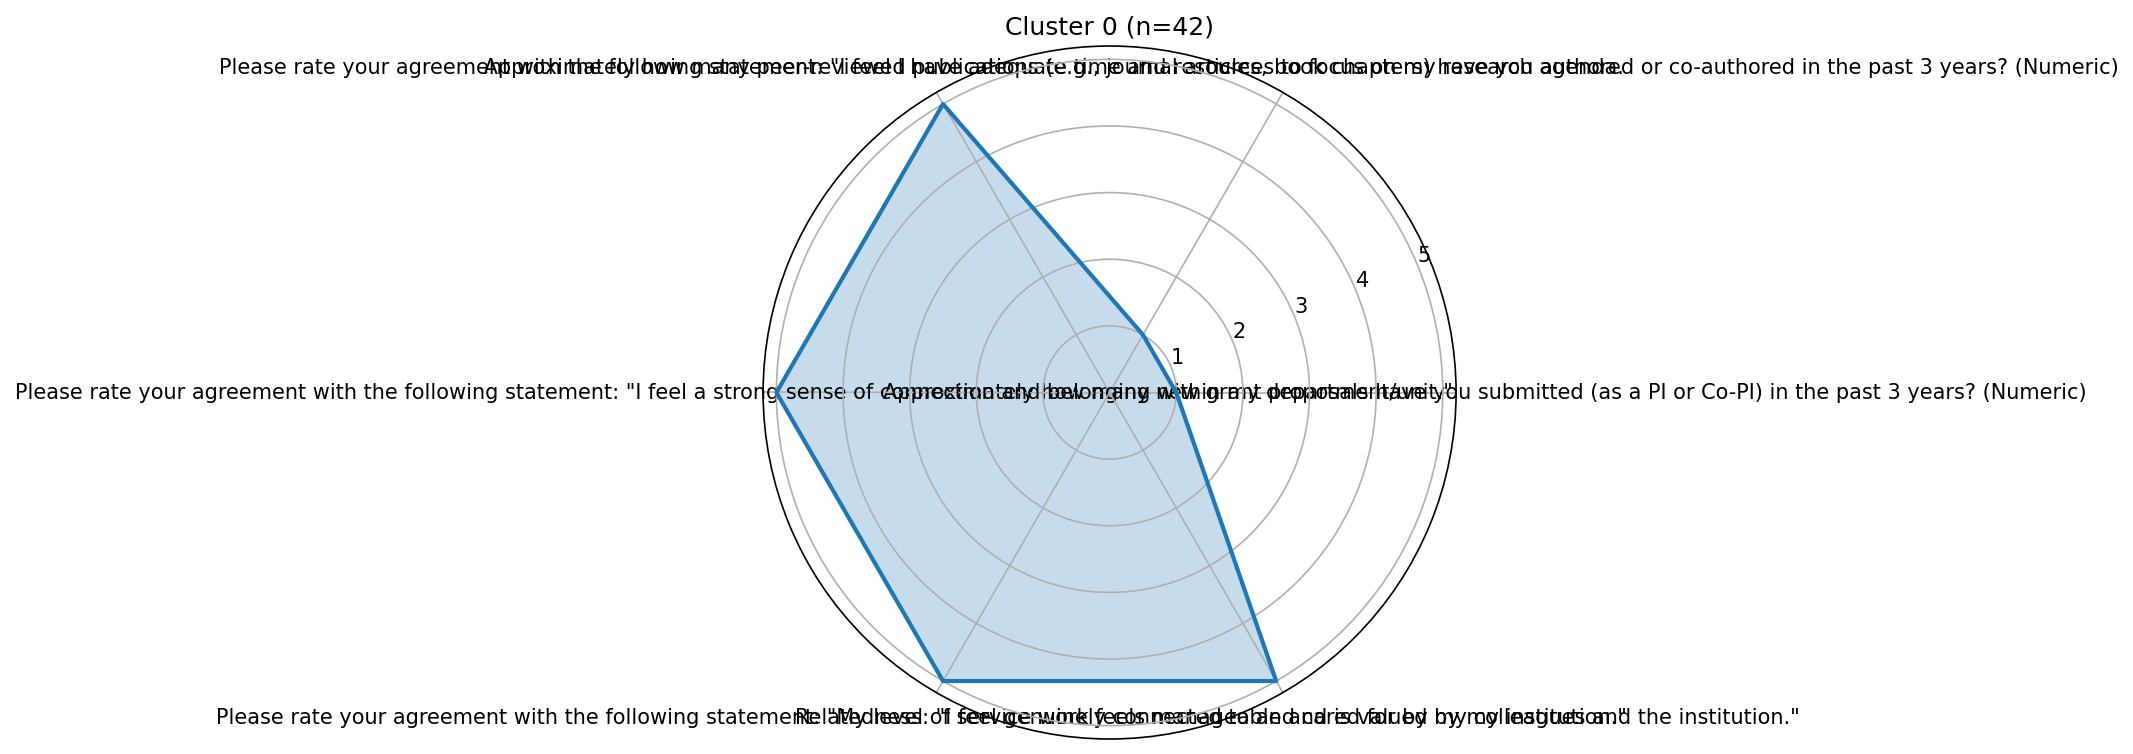
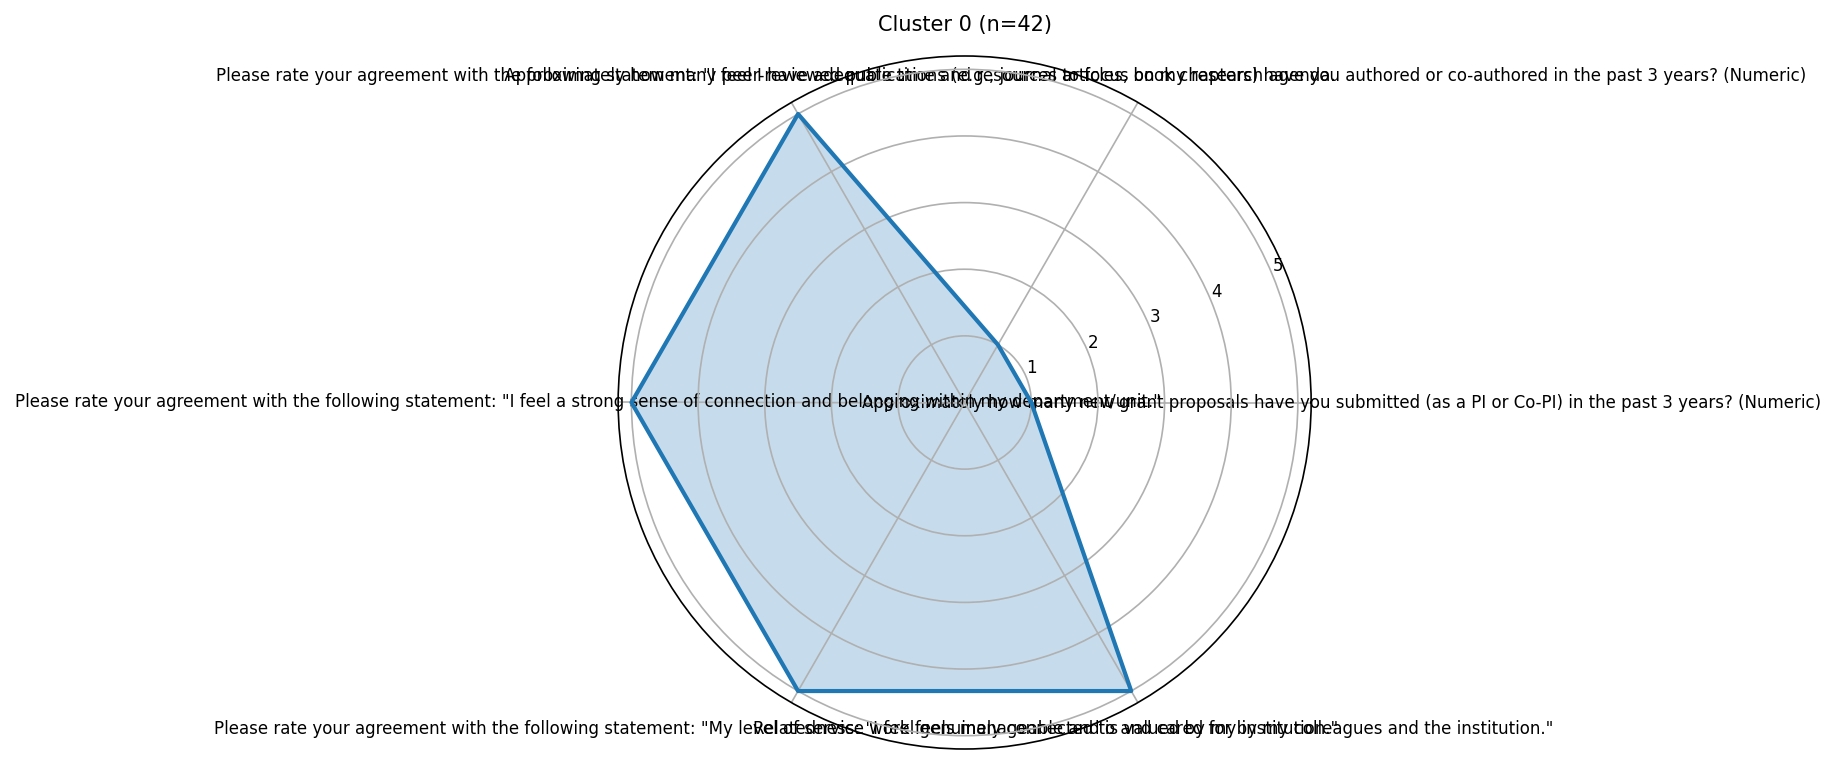
style(plot): reduce radar label sizes for readability

diff --git a/scripts/quiet_quitting_clustering.py b/scripts/quiet_quitting_clustering.py
@@ -111,7 +111,7 @@ pd.DataFrame.from_dict(personas, orient='index').to_csv(os.path.join(outputs_dir
 variances = df_numeric.var().sort_values(ascending=False)
 top_features = variances.head(6).index.tolist()
 
-def make_radar(values, categories, title):
+def make_radar(values, categories, title, outfile):
     N = len(categories)
     angles = [n / float(N) * 2 * pi for n in range(N)]
     angles += angles[:1]
@@ -121,13 +121,21 @@ def make_radar(values, categories, title):
     ax = plt.subplot(111, polar=True)
     ax.set_xticks(angles[:-1])
     ax.set_xticklabels(categories)
+    # smaller labels for readability
+    ax.tick_params(axis='x', labelsize=8, pad=4)
+    ax.tick_params(axis='y', labelsize=8)
     ax.plot(angles, vals, linewidth=2)
     ax.fill(angles, vals, alpha=0.25)
-    ax.set_title(title)
-    plt.savefig(os.path.join(outputs_dir, f\"radar_cluster_{title.split()[1]}.png\"), dpi=150, bbox_inches=\"tight\"); plt.show()
+    ax.set_title(title, fontsize=10, pad=12)
+    plt.savefig(os.path.join(outputs_dir, outfile), dpi=150, bbox_inches="tight"); plt.show()
 
 for c in cluster_profiles.index:
-    make_radar(cluster_profiles.loc[c, top_features], top_features, f"Cluster {c} (n={cluster_counts.loc[c]})")
+    make_radar(
+        cluster_profiles.loc[c, top_features],
+        top_features,
+        f"Cluster {c} (n={cluster_counts.loc[c]})",
+        f"radar_cluster_{c}.png"
+    )
 
 # --- Heuristic risk scoring for quiet quitting ---
 # Identify columns with names matching engagement/protection vs burnout/risk
